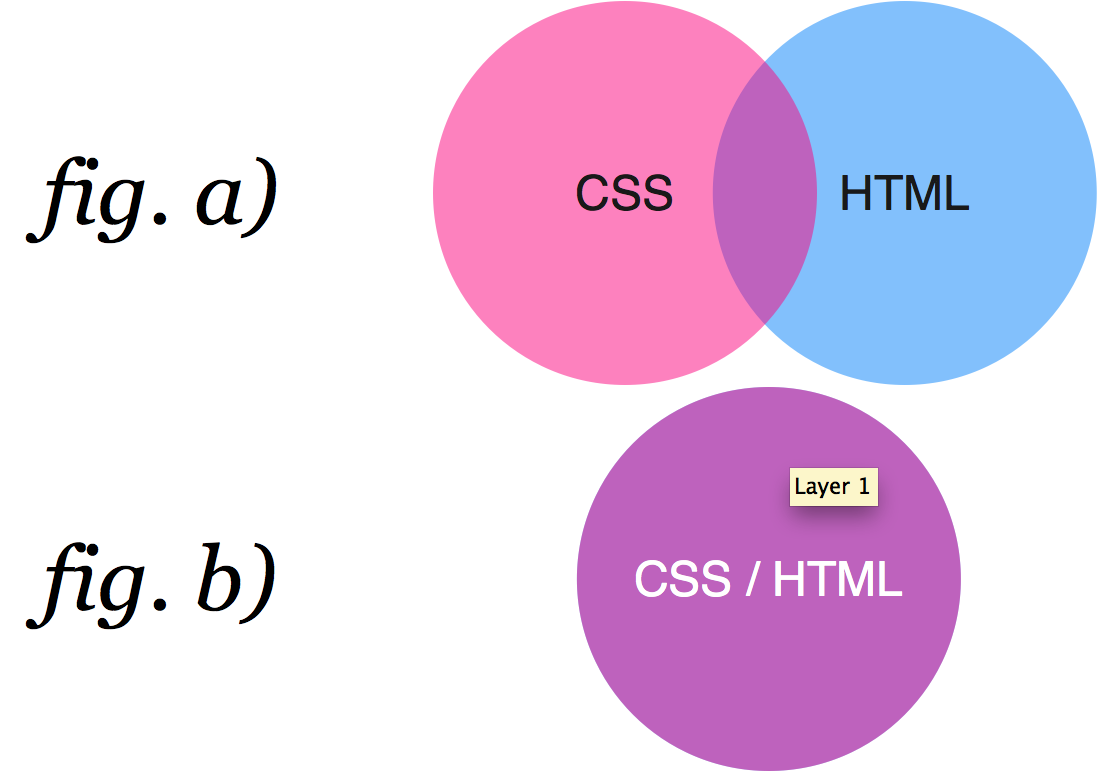
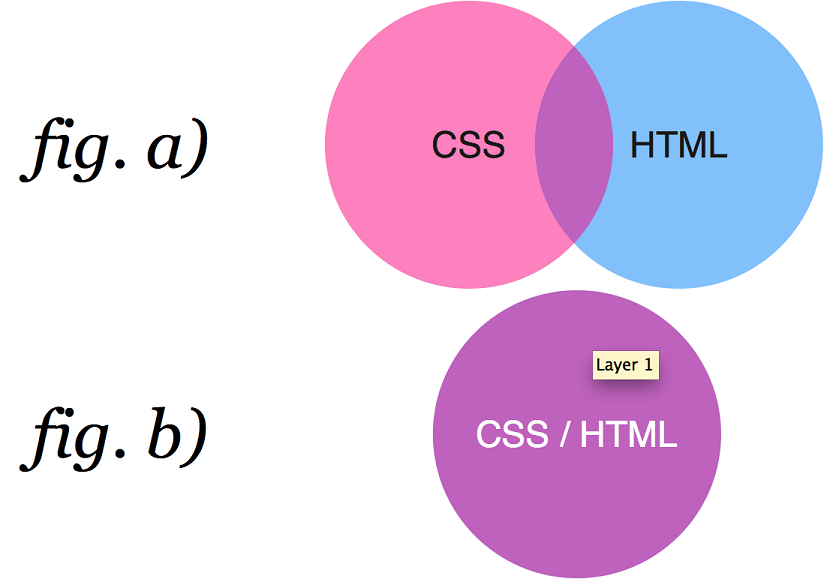
General cleanup
- Changed function docs to be in jsdoc format
- Scaled down explanation .png file (deleted .svg as wasn't used)
- Updated jslint config to run against more files (and fixed some lint
issues)
- Added necessary npm deps as devDependencies
- Added maintainers field to package.json

diff --git a/test/test.js b/test/test.js
@@ -1,3 +1,5 @@
+/*jslint node: true */
+
 var checkCSS =  require( '../src/check-css' ),
     gutil =     require( 'gulp-util' ),
     assert =    require( 'assert' ),
@@ -6,6 +8,7 @@ var checkCSS =  require( '../src/check-css' ),
     sinon =     require( 'sinon' );
 
 function createFile( file ) {
+    'use strict';
     return  new gutil.File({
                 base: path.join( __dirname, path.dirname( file ) ),
                 contents: new Buffer( fs.readFileSync( file ) ),
@@ -16,7 +19,7 @@ function createFile( file ) {
 }
 
 describe( 'the bad CSS case', function() {
-
+    'use strict';
     it( 'should throw an error by default', function( done ) {
         var dataSpy = sinon.spy(),
             css = createFile( 'test/bad-css/bad.css' ),
@@ -40,7 +43,7 @@ describe( 'the bad CSS case', function() {
 
 
 describe( 'the empty case', function() {
-
+    'use strict';
     it( 'should not emit an error', function( done ) {
         var errorSpy = sinon.spy(),
             emptyCSS = createFile( 'test/empty/empty.css' ),
@@ -60,7 +63,7 @@ describe( 'the empty case', function() {
 });
 
 describe( 'the happy case', function() {
-
+    'use strict';
     it( 'should emit all files', function( done ) {
         var errorSpy = sinon.spy(),
             css = createFile( 'test/happy/happy.css' ),
@@ -155,6 +158,7 @@ describe( 'the happy case', function() {
 });
 
 describe( 'no error should be thrown', function() {
+    /* jshint ignore:start */
     it( 'without config', function( done ) {
         try {
             stream = checkCSS();
@@ -182,10 +186,11 @@ describe( 'no error should be thrown', function() {
         stream.write( invalidCSS );
         stream.end();
     });
+    /* jshint ignore:end */
 });
 
 describe( 'the NULL case', function() {
-
+    'use strict';
     it( 'should let files through', function( done ) {
         var errorSpy = sinon.spy(),
             stream = checkCSS();
@@ -206,7 +211,7 @@ describe( 'the NULL case', function() {
 });
 
 describe( 'the angular syntax', function() {
-
+    'use strict';
     it( 'should be off by default', function( done ) {
         var errorSpy = sinon.spy(),
             dataSpy = sinon.spy(),
@@ -251,7 +256,7 @@ describe( 'the angular syntax', function() {
 });
 
 describe( 'predefined ignore rules', function() {
-
+    'use strict';
     it( 'should be addable', function( done ) {
 
         var errorSpy = sinon.spy(),
@@ -296,7 +301,7 @@ describe( 'predefined ignore rules', function() {
 });
 
 describe( 'the bad HTML case', function() {
-
+    'use strict';
     it( 'should throw an error', function( done ) {
         var errorSpy = sinon.spy(),
             dataSpy = sinon.spy(),

diff --git a/src/check-css.js b/src/check-css.js
@@ -29,7 +29,11 @@ var definedClasses = [],
     usedClasses = [],
     CLASS_REGEX = /\.[a-zA-Z](?:[0-9A-Za-z_-])*/g;  // leading dot & a letter & digits, letters, _ or -
 
-// checks whether a class should be ignored
+/**
+* @description - Checks whether a class should be ignored
+* @param {string} clazz - The classed to be checked against ignore strings and regexs
+* @return {boolean} - returns true or false if clazz should be ignored
+*/
 function shouldIgnore( clazz ) {
     'use strict';
 
@@ -46,6 +50,12 @@ function shouldIgnore( clazz ) {
     };
 }
 
+
+/**
+* @description - Checks whether to ignore a collection of classes
+* @param {boolean} ignore - whether classes should be filtered out
+* @return {boolean} - return whether it is to be ignored or not
+*/
 function filterIgnored( ignore ) {
     'use strict';
 
@@ -61,8 +71,10 @@ function filterIgnored( ignore ) {
     };
 }
 
-// checks if the selectors of a CSS rule are a class
-// an adds them to the defined classes
+/**
+* @description - Checks if the selectors of a CSS rule are a class and adds them to the list of defined classes
+* @param {Array} collection - The existing list of classes
+*/
 function getDefinedClasses( collection ) {
     'use strict';
 
@@ -90,7 +102,10 @@ function getDefinedClasses( collection ) {
     };
 }
 
-// actual function that gets exported
+/**
+ * @description - Function that gets exported for css checking
+ * @param {Object} opts - The options such as ignore, globals and angular
+ */
 function checkCSS( opts ) {
     'use strict';
 

diff --git a/src/collector/angular.js b/src/collector/angular.js
@@ -2,7 +2,12 @@ var _ = require( 'lodash' );
 
 var NG_TAG = /((data|x)[-:_])?ng[-:_]class/i;
 
+/**
+ * @description - This collector obtains all classes added to html elements using angular (such as ng-class)
+ * @return - collection of classes added to html using angular
+ */
 function angularCollector() {
+    'use strict';
     this.collect = function collect( attributes ) {
         var classes = [],
             tags = [];
@@ -37,7 +42,7 @@ function angularCollector() {
                     });
             } else if ( [ '\'', '"' ].indexOf( attributes[ tag ][ 0 ] ) >= 0 ) {
                 // it's a string we need to check
-                return [ attributes[ tag ].substring( 1, attributes[ tag ].length - 1 ) ];
+                return [ attributes[ tag ].substring( 1, attributes[ tag ].length - 1 ) ];
             } else {
                 // it's a variable, ignore
                 return [];
@@ -51,7 +56,7 @@ function angularCollector() {
         });
 
         return classes;
-    }
+    };
 }
 
 module.exports = angularCollector;

diff --git a/src/collector/regular.js b/src/collector/regular.js
@@ -1,4 +1,9 @@
+/**
+ * @description - Collects all of the css classes defined using the class attribute
+ * @return - 
+ */
 function regularCollector() {
+    'use strict';
     this.collect = function collect( attributes, angularSupport ) {
         var hasClass = attributes[ 'class' ];
         
@@ -10,7 +15,7 @@ function regularCollector() {
                     })
 
                 : [];
-    }
+    };
 }
 
 module.exports = regularCollector;

diff --git a/Gulpfile.js b/Gulpfile.js
@@ -23,7 +23,7 @@ gulp.task( 'watch', function() {
 });
 
 gulp.task( 'jshint', function() {
-    return gulp.src( './src/check-css.js' )
+    return gulp.src( ['./test/**/*.js', './src/**/*.js', '!./src/**/bootstrap*'] )
             .pipe( jshint() )
             .pipe( jshint.reporter( 'jshint-stylish' ) );
 });
